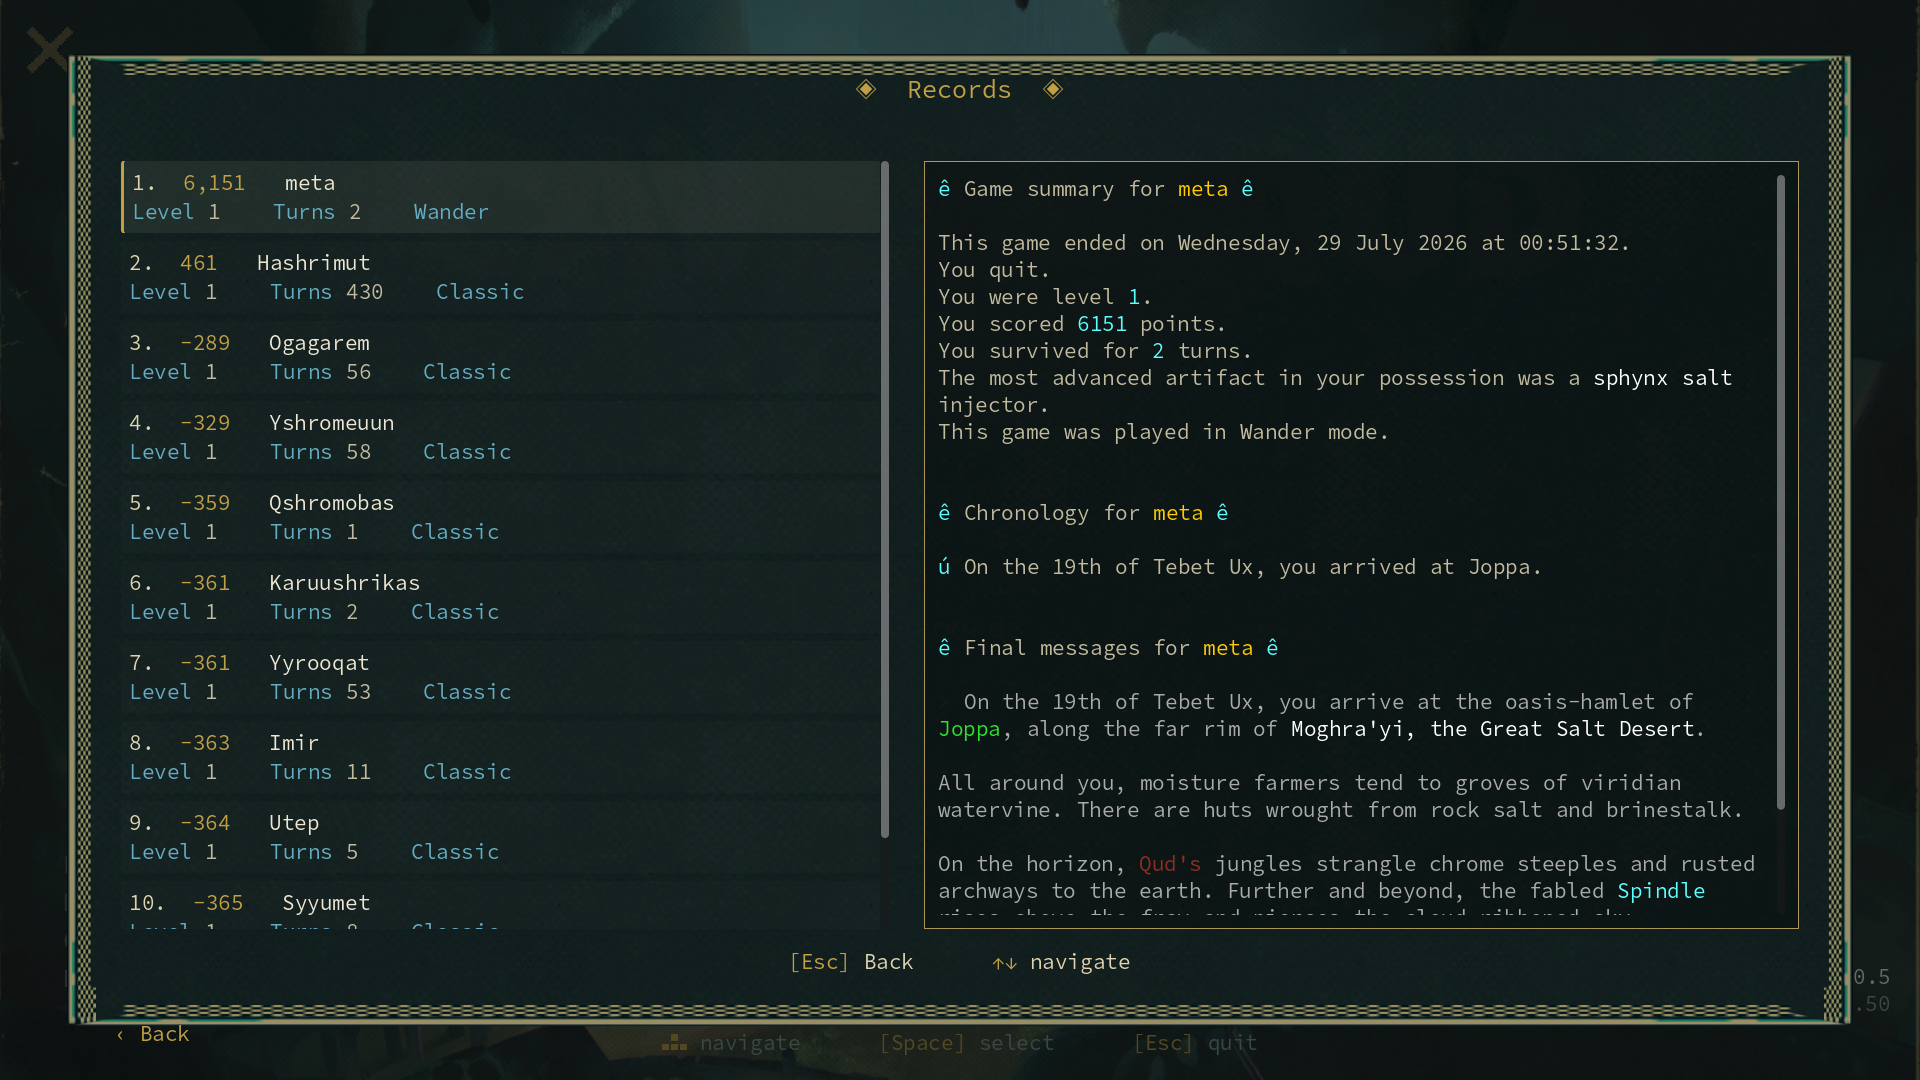
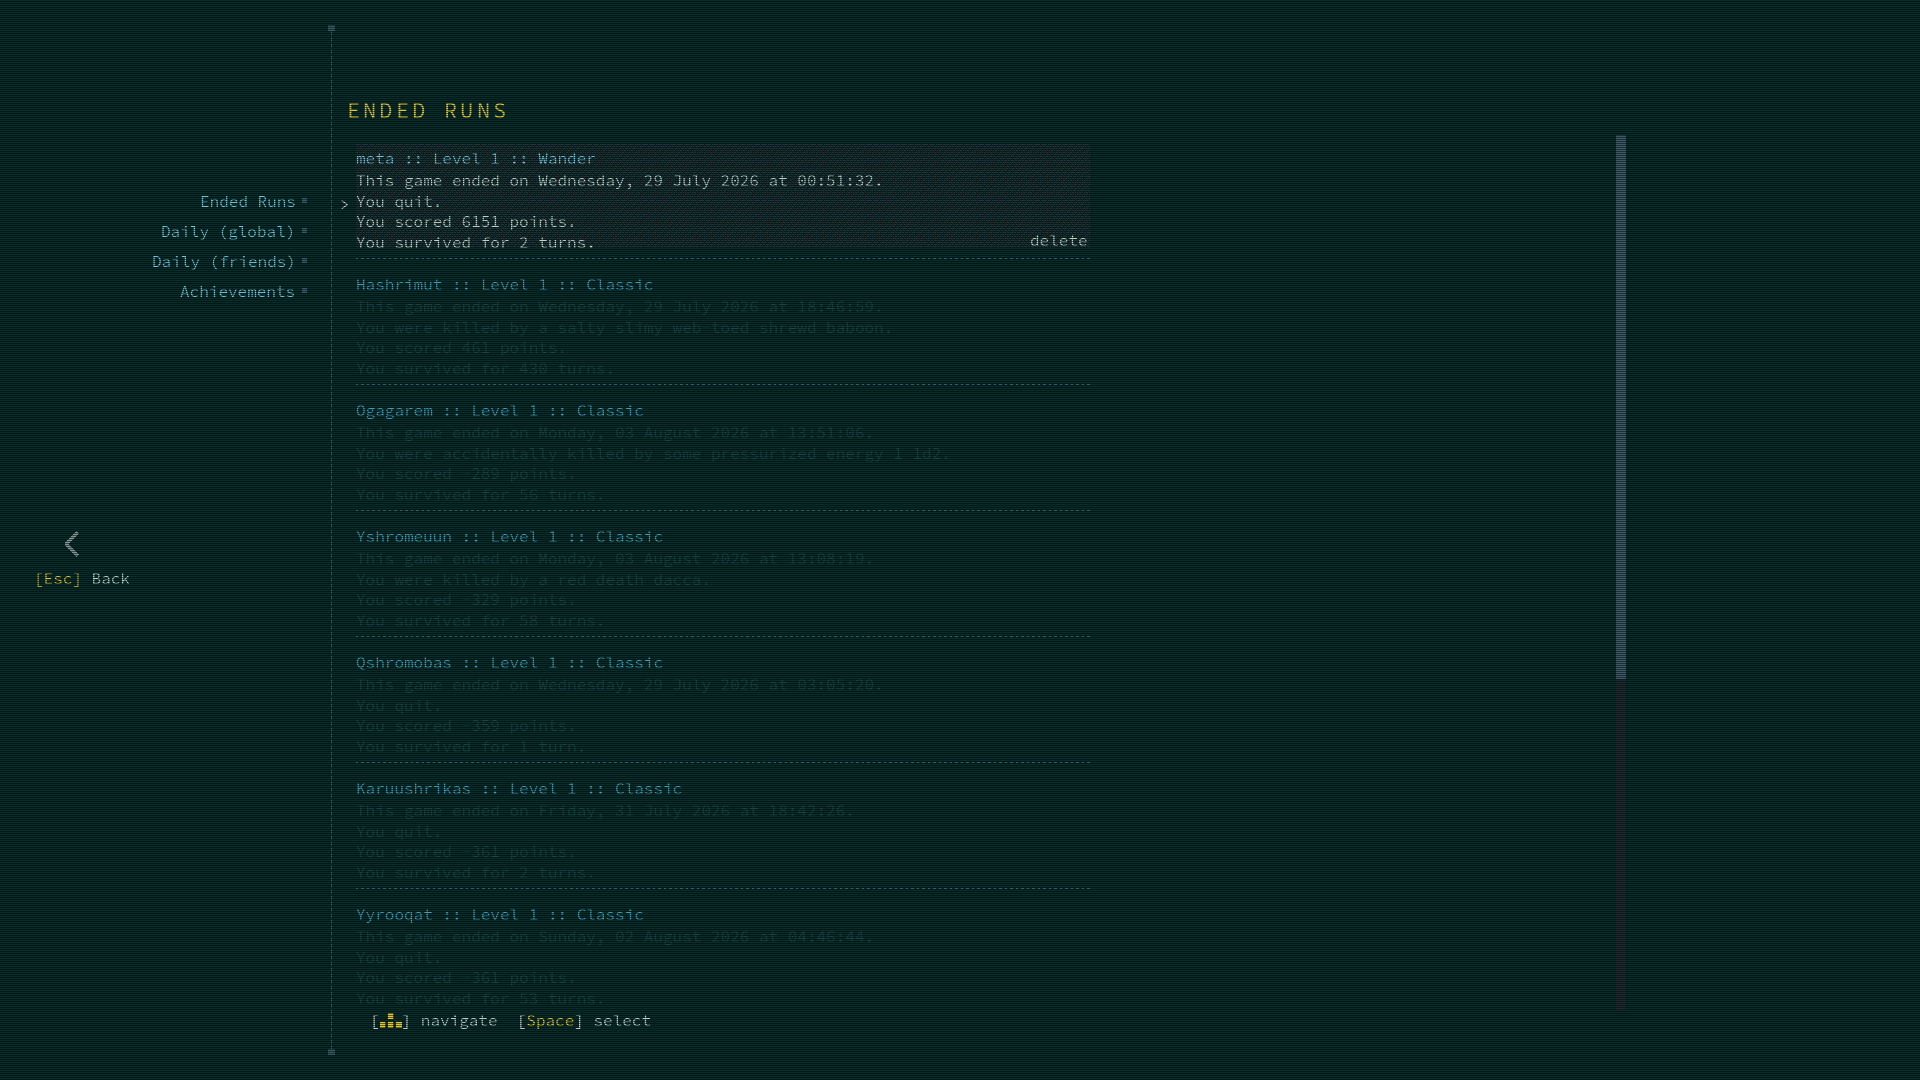
Records 1:1 rebuild: 18.44/11.0% -> 2.93/2.5% — best screen on the board
Full ENDED RUNS reproduction from measurement, gated on one_to_one():
- bare flat bg + Qud's INTERLACE: records/options are console-style screens
  with odd rows at ~50% ((6,44,42)/(2,22,22) pairs) — mods is flat; a shader
  overlay reproduces it in phase (missing it hid a mean of ~6.4 on its own)
- dotted rail divider (5on/1off, end caps), right-aligned rail w/ markers
- entry stack built from records.json: header 'Name :: Level N :: Mode' +
  4 body lines parsed from Details (ended-on / cause / scored / survived),
  pitch 126, dotted separators, hover-select persistent dither highlight,
  > cursor, per-entry delete label (visual only)
- 10px scroll track synced to the scroller, [Esc] Back chevron, bottom hint
- 2D-CANVAS GAMMA DISCOVERED: Raves' canvas renders mid-tones ~x0.885 darker
  than spec (the playfield never showed it — its colours were tuned
  empirically and absorbed it). _q() pre-compensates (x1.13 above 20/ch) so
  captured pixels land on Qud's measured values; worth rolling into the other
  menu screens later.

diff --git a/reports/2026-08-03-menu-parity/scoreboard.md b/reports/2026-08-03-menu-parity/scoreboard.md
@@ -9,7 +9,7 @@ channel Δ>32. Playfield congruence for reference: mean-diff ≈ 2, hot ≈ 0%.
 |---------|------------:|-------:|---------|
 | title   |  7.35 |  6.6% | layout aligns after the chromeless fix; remaining heat = wordmark x-offset, menu hover/selection styling, hint bar, version-line ("build …" extra in Raves) |
 | options | 15.80 |  4.8% | RAVES section now HIDDEN under --one-to-one (raves_solo passes it; 1:1 locked for the run) — remaining delta is pure layout: Raves is a narrow centred column + Save/Load preset bar; Qud is a full-width two-pane with left category rail |
-| records | 18.44 | 11.0% | different design generation: Raves = "◆ Records ◆" score-list + summary pane; Qud = ENDED RUNS entry stack with left rail (Ended Runs / Daily ×2 / Achievements) + per-entry delete |
+| records |  2.93 |  2.5% | **1:1 REBUILD (2026-08-03)**: full ENDED RUNS reproduction — bare interlaced bg (Qud console-style: odd rows ×0.5, a filter Mods lacks!), dotted rail divider + end caps, right-aligned rail, entry stack from Details parsing (date/cause/score/turns), persistent dither selection + > cursor + delete, dotted separators, 10px scroll track, [Esc] Back chevron, hint bar. 2D-canvas gamma compensation (_q ×1.13 above 20) discovered + applied. Remaining: title letterspacing, scroll thumb geometry, glyph AA |
 | mods    |  5.10 |  2.9% | ✅ **DONE — Daniel signed off 2026-08-03.** Full Qud reproduction incl. container grid (one-cell header + [thin][list][pane][thin] + full-width footer line + darkspace), frame sprites (5-dot corners, imperfect borders), 7×7 dither tiles (bands/chips/highlight, phase-anchored), hover-SELECT persistent highlight (hv mouse discovery), dotted row separators, `<...>` path elision, exporter version/size fixes. Residual = glyph AA + title-screen corner below the panel |
 
 (First baseline had title 14.60/13.4% — a systemic ~28px offset from Raves' window
